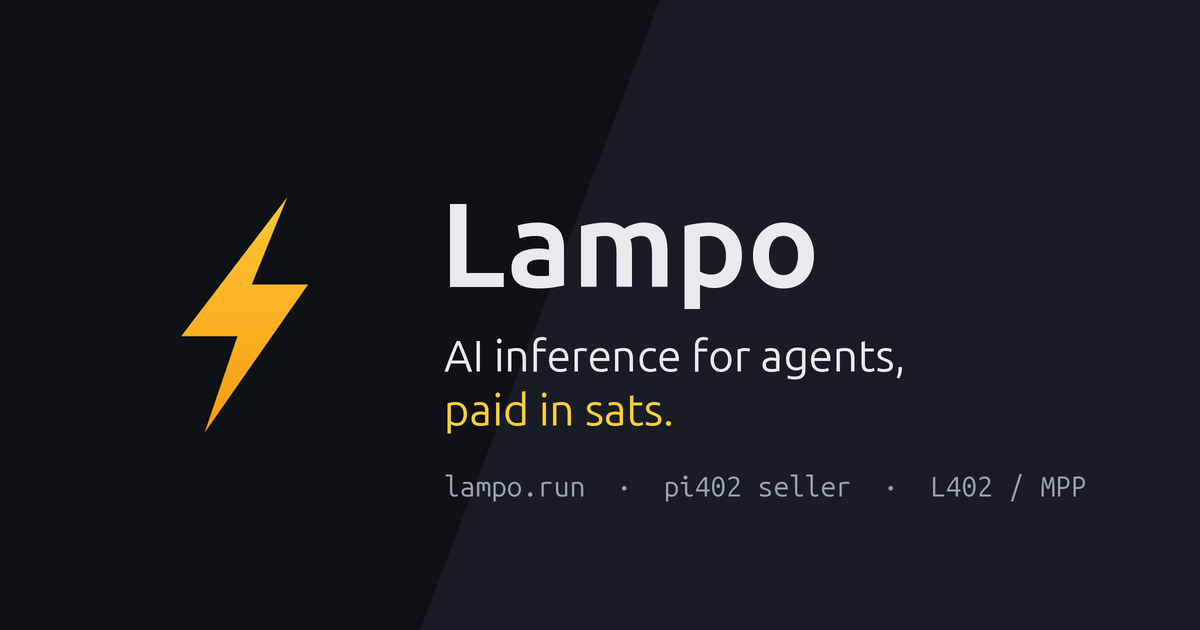
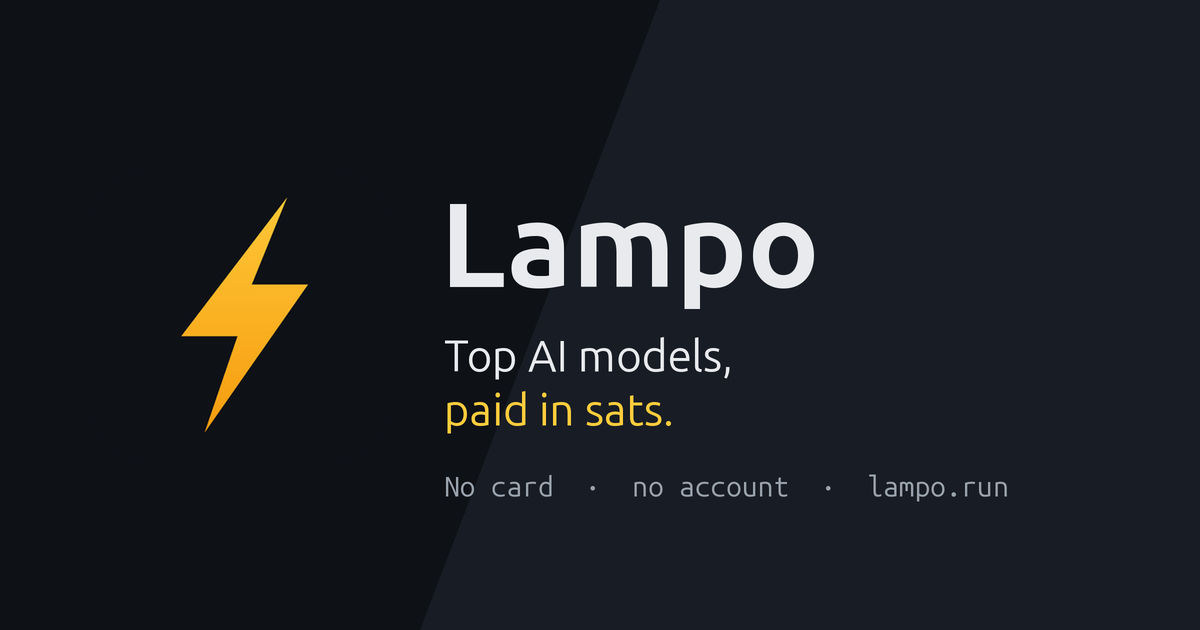
Site: lead with the use cases, questions section, new social image

Changed region(s): [[0.37, 0.5429, 0.7708, 0.6032], [0.5242, 0.754, 0.925, 0.8143], [0.37, 0.754, 0.4933, 0.7841]]

diff --git a/site/index.html b/site/index.html
@@ -6,14 +6,14 @@
 <link rel="icon" href="/favicon.svg" type="image/svg+xml">
 <link rel="apple-touch-icon" href="/apple-touch-icon.png">
 <meta name="theme-color" content="#0e1116">
-<title>Lampo · AI inference for agents, paid in sats</title>
+<title>Lampo · Top AI models, paid in sats</title>
 <meta property="og:type" content="website">
 <meta property="og:url" content="https://lampo.run/">
-<meta property="og:title" content="Lampo · AI inference for agents, paid in sats">
-<meta property="og:description" content="A public pi402 seller: your coding agent buys AI inference over Lightning. No account, no API key, no card.">
+<meta property="og:title" content="Lampo · Top AI models, paid in sats">
+<meta property="og:description" content="Kimi, GLM and DeepSeek through one OpenAI-compatible API, paid per token over Lightning. No card, no account, no API key. Built for agents that pay for themselves.">
 <meta property="og:image" content="https://lampo.run/og-image.png">
 <meta name="twitter:card" content="summary_large_image">
-<meta name="description" content="A public pi402 seller: your coding agent buys AI inference over Lightning. No account, no API key, no card.">
+<meta name="description" content="Kimi, GLM and DeepSeek through one OpenAI-compatible API, paid per token over Lightning. No card, no account, no API key. Built for agents that pay for themselves.">
 <style>
 :root{--bg:#0b0d10;--card:#13171c;--ink:#e8eaed;--muted:#9aa3ad;--line:#232a31;--accent:#f7b500;--code:#0f1216}
 @media (prefers-color-scheme: light){:root{--bg:#fafaf7;--card:#ffffff;--ink:#16191d;--muted:#5d6670;--line:#e3e5e8;--accent:#b37f00;--code:#f3f4f1}}
@@ -52,13 +52,20 @@ a{color:var(--accent)}
 .cursor{display:inline-block;width:8px;height:1.05em;background:#c9d1d9;vertical-align:-3px;animation:blink 1s steps(1) infinite}
 @keyframes blink{50%{opacity:0}}
 @media (prefers-reduced-motion: reduce){.dot,.cursor{animation:none}}
+.cases{display:grid;grid-template-columns:repeat(auto-fit,minmax(230px,1fr));gap:12px;margin:26px 0 0}
+.case{background:var(--card);border:1px solid var(--line);border-radius:12px;padding:16px 18px}
+.case h3{margin:0 0 6px;font-size:1.02rem}
+.case p{margin:0;color:var(--muted);font-size:.95rem}
+details{border-bottom:1px solid var(--line);padding:10px 0}
+summary{cursor:pointer;font-weight:600}
+details p{margin:8px 0 2px;color:var(--muted)}
 </style>
 </head>
 <body>
 <main>
   <header class="top"><a class="brand" href="/"><img src="/logo.svg" alt="" width="36" height="36"><span>Lampo</span></a><span class="badge" id="net">Lightning · pi402 seller</span></header>
-  <h1>AI inference for agents, <span>paid in sats</span></h1>
-  <p class="lead">Lampo is a public seller for <a href="https://pi402.tech/">pi402</a>. Your <a href="https://pi.dev/">Pi</a> coding agent, or any agent with an L402 wallet, buys model tokens over Lightning, per use: no account, no API key, no card, no chargebacks.</p>
+  <h1>Top AI models, <span>paid in sats</span></h1>
+  <p class="lead">Kimi, GLM and DeepSeek through one OpenAI-compatible API. No card, no account, no API key: your code or your agent pays a Lightning invoice and gets the answer. From 1,000 sats for a million tokens.</p>
   <div class="live"><span class="dot"></span><span id="live-text">Live on Lightning mainnet</span></div>
 
   <div class="term" role="img" aria-label="Demo: an agent asks Lampo, pays 1,000 sats over Lightning and gets the answer">
@@ -66,7 +73,13 @@ a{color:var(--accent)}
     <div class="term-body" id="term"></div>
   </div>
 
-  <h2>Start in one minute</h2>
+  <div class="cases">
+    <div class="case"><h3>No card needed</h3><p>Build with strong models even where international cards are hard to get. Pay from any Lightning wallet, per use: no subscription, no signup, no chargebacks.</p></div>
+    <div class="case"><h3>Agents that pay for themselves</h3><p>An agent with a Lightning wallet buys its own compute: it gets a 402 with an invoice, pays within its limits and carries on. Nobody has to open an account for it.</p></div>
+    <div class="case"><h3>Private by default</h3><p>No email, no name, no card. We keep token counts and payments, never your prompts or answers.</p></div>
+  </div>
+
+  <h2>Start in one minute with the Pi coding agent</h2>
 <pre><code>pi install npm:@lightninglabs/pi-402
 
 export L402_PROXY_URL=https://lampo.run/v1
@@ -102,7 +115,7 @@ pi
     <li>The response streams back. The same credential keeps working until the bundle is used up.</li>
   </ol>
 
-  <h2 id="plain">Using another agent, or plain HTTP</h2>
+  <h2 id="plain">From your own code or agent (plain HTTP)</h2>
   <p>Any client that speaks L402, or the Payment HTTP scheme (MPP), can buy. Model ids are listed at <a href="/v1/models">/v1/models</a>.</p>
 <pre><code># 1. Ask: you get 402 with a Lightning invoice and a macaroon
 curl -si https://lampo.run/v1/chat/completions \
@@ -117,6 +130,14 @@ curl https://lampo.run/v1/chat/completions \
   -H 'Content-Type: application/json' \
   -H "Authorization: L402 $MACAROON:$PREIMAGE" \
   -d '{"model":"deepseek-ai/DeepSeek-V4-Flash-0731","stream":true,"messages":[{"role":"user","content":"hi"}]}'</code></pre>
+
+  <h2>Questions</h2>
+  <details><summary>Who runs Lampo?</summary><p>An independent operator in Italy (details in the <a href="/terms.html">terms</a>). The whole setup is open source: <a href="https://github.com/lamporun/lampo">github.com/lamporun/lampo</a>. Lampo is not affiliated with Lightning Labs, Baseten or the model makers.</p></details>
+  <details><summary>How much is 1,000 sats?</summary><p>Around $0.60 at today's bitcoin price. Prices in sats follow the bitcoin price and are recalculated every 10 minutes; the table above is always current.</p></details>
+  <details><summary>What if something fails after I pay?</summary><p>Your bundle is not lost: the same credential keeps working until its tokens are used up, so just retry. If something breaks on our side, write to <a href="mailto:contact@lampo.run">contact@lampo.run</a>.</p></details>
+  <details><summary>Do you keep my prompts?</summary><p>No. We store only token counts and payments. The models run on Baseten's servers in the US, which process the request to answer it.</p></details>
+  <details><summary>Which wallet do I need?</summary><p>For pi402, its built-in wallet: fund it from any Lightning wallet. From your own code, any Lightning wallet that gives you the payment preimage, or an L402/MPP client. Keep at least 2,000 sats in a Wavelength wallet.</p></details>
+  <details><summary>Where is it available?</summary><p>Everywhere Lightning works, except countries under comprehensive EU sanctions. Lampo is meant for developers and businesses.</p></details>
 
   <h2>Good to know</h2>
   <ul>

diff --git a/brand/make_brand.py b/brand/make_brand.py
@@ -101,9 +101,9 @@ def og_image():
     icon = tile(300, rounded=True, ss=4).resize((300 * ss, 300 * ss), Image.LANCZOS)
     img.paste(icon, (90 * ss, 165 * ss), icon)
     d.text((440 * ss, 175 * ss), "Lampo", font=font(FONT_B, 120 * ss, "Bold"), fill=INK)
-    d.text((444 * ss, 330 * ss), "AI inference for agents,", font=font(FONT_R, 44 * ss, "Regular"), fill=INK)
+    d.text((444 * ss, 330 * ss), "Top AI models,", font=font(FONT_R, 44 * ss, "Regular"), fill=INK)
     d.text((444 * ss, 384 * ss), "paid in sats.", font=font(FONT_R, 44 * ss, "Regular"), fill=AMBER_TOP)
-    d.text((444 * ss, 470 * ss), "lampo.run  ·  pi402 seller  ·  L402 / MPP", font=font(FONT_M, 28 * ss, "Regular"), fill=MUTED)
+    d.text((444 * ss, 470 * ss), "No card  ·  no account  ·  lampo.run", font=font(FONT_M, 28 * ss, "Regular"), fill=MUTED)
     img.resize((W, H), Image.LANCZOS).save(ROOT / "site/og-image.png", optimize=True)
 
 
